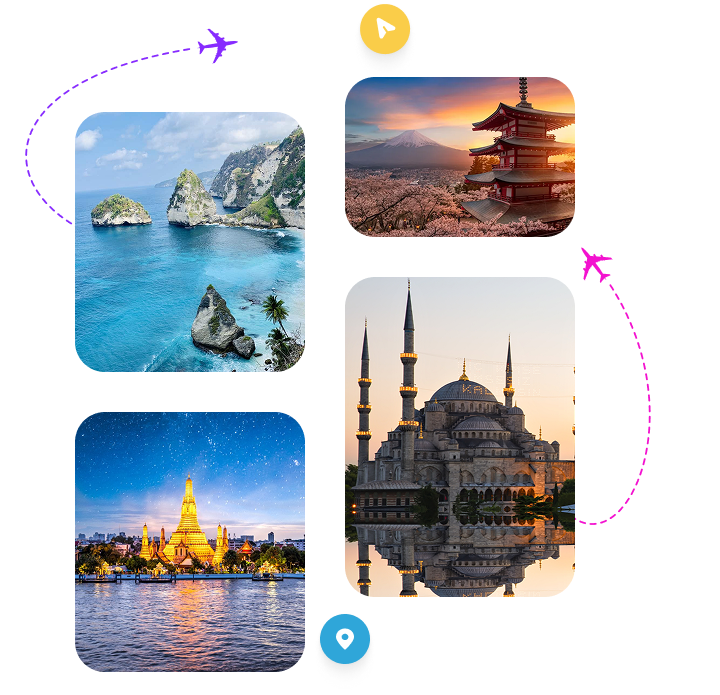
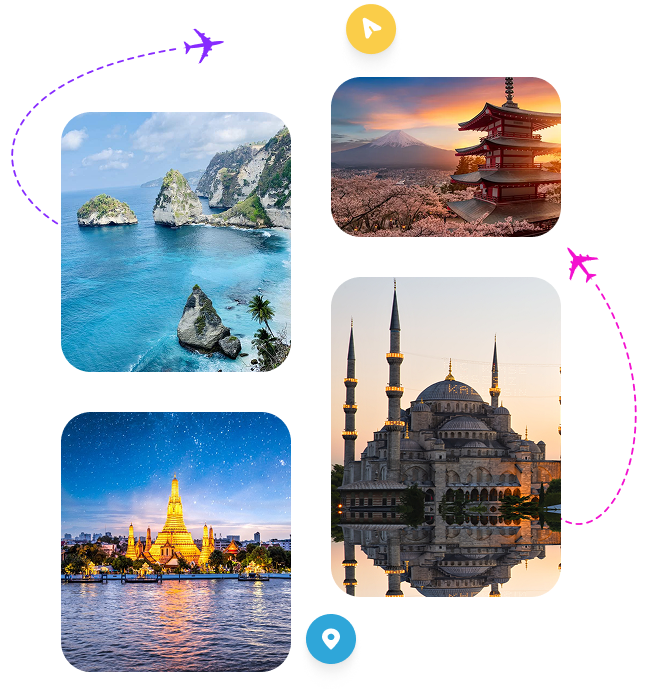
updated ui tweeks

diff --git a/src/components/ui/Hero/hero.tsx b/src/components/ui/Hero/hero.tsx
@@ -12,14 +12,14 @@ export default function Hero() {
   return (
     <section className="py-10 relative flex items-center justify-center overflow-x-hidden-hidden">
       <Container>
-        <div className="flex flex-col lg:flex-row items-center justify-between gap-12 lg:gap-16 relative z-10 text-center lg:text-left">
+        <div className="flex flex-col lg:flex-row items-start justify-between gap-12 lg:gap-16 relative z-10 text-center lg:text-left">
           {/* Left: Text */}
-          <div className="w-full lg:w-[535px] flex flex-col items-center lg:items-start relative">
+          <div className="w-full sm:w-[50%] mt-[100px]  flex flex-col items-center lg:items-start relative">
             {/* Blurred circle behind text */}
             <div className="absolute -z-10 w-[400px] sm:w-[450px] md:w-[500px] h-[400px] sm:h-[450px] md:h-[500px] rounded-full bg-primary opacity-50 blur-[200px] sm:blur-[220px] md:blur-[250px] -top-24 sm:-top-32 md:-top-40 -left-16 sm:-left-24 md:-left-32"></div>
 
             {/* Top box */}
-            <div className="inline-flex items-center gap-2 sm:gap-4 px-0 py-0">
+            <div className="inline-flex items-center gap-2 sm:gap-4 px-0 py-0 mb-6">
               {/* Small dash/line */}
               <span className="w-6 h-[2px] bg-primary inline-block"></span>
 
@@ -46,7 +46,7 @@ export default function Hero() {
           </div>
 
           {/* Right: Image */}
-          <div className="flex justify-center lg:justify-end w-full sm:w-[500px] md:w-[719px] h-[400px] sm:h-[500px] md:h-[672px] relative">
+          <div className="flex justify-center lg:justify-end w-[649px] h-[672] relative">
             {/* Blurred circle */}
             <div className="hidden sm:block absolute -z-10 w-[400px] sm:w-[450px] md:w-[500px] lg:w-[550px] xl:w-[600px] h-[400px] sm:h-[450px] md:h-[500px] lg:h-[550px] xl:h-[600px] rounded-full bg-primary opacity-50 blur-[200px] sm:blur-[220px] md:blur-[250px] lg:blur-[280px] xl:blur-[300px] top-0 sm:top-10 md:top-16 -right-10 sm:-right-14 lg:-right-20"></div>
 

diff --git a/src/components/ui/HowItWorks/how_it_works.tsx b/src/components/ui/HowItWorks/how_it_works.tsx
@@ -39,9 +39,9 @@ export default function HowItWorks() {
             {/* Blurred Circle Behind Image */}
             <div className="absolute bottom-0 right-0 w-full md:w-[500px] h-[300px] sm:h-[400px] md:h-[500px] rounded-full opacity-50 bg-[#D9952F] blur-[150px] sm:blur-[200px] md:blur-[250px] -z-10" />
 
-            <div className="relative w-full h-[500px] sm:h-[500px] md:h-[717px] max-w-full">
+            <div className="relative w-full h-[500px] sm:h-[500px] md:h-[756px] max-w-full">
               <Image
-                src="/travel-2.png"
+                src="/travel.jpg"
                 alt="How it works illustration"
                 fill
                 className="object-contain w-full"
